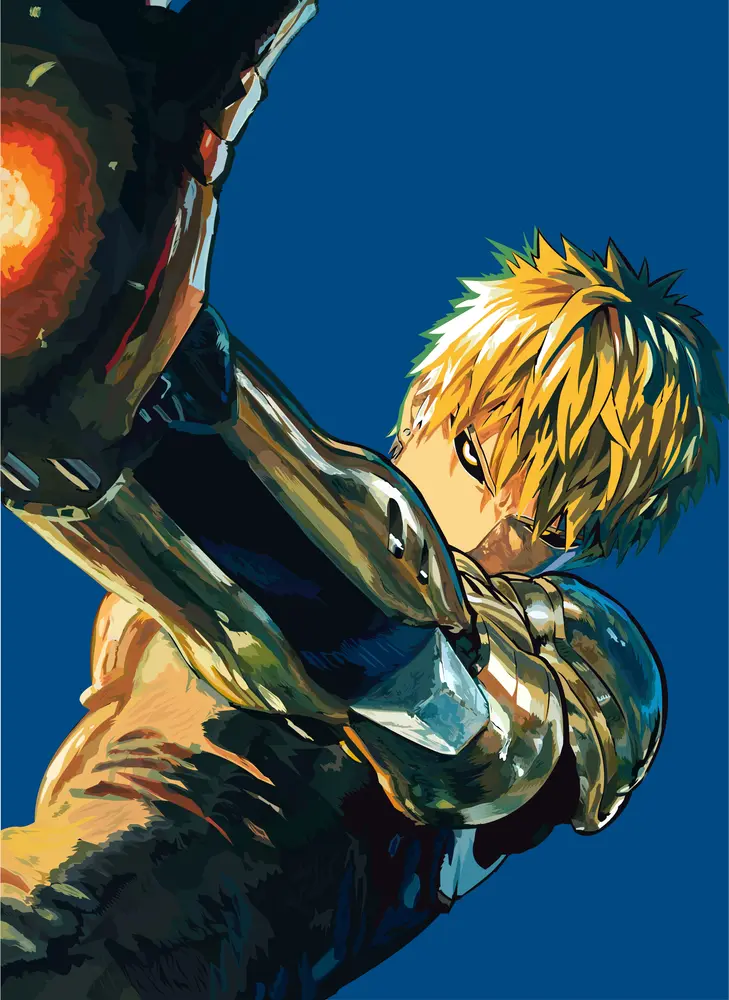
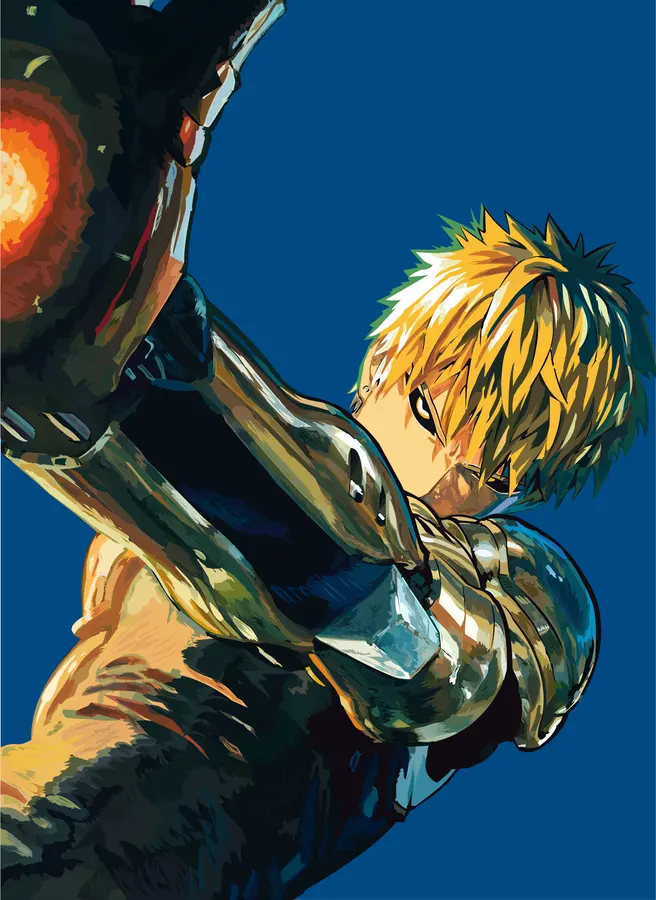
Genre mosaic: rounded corners and curated artwork
Pieces are clipped with per-piece SVG clip paths (objectBoundingBox units)
so corners can be rounded while staying responsive. Uses the original
comic artwork for Action, Fantasy, Sci-Fi, Horror, Romance, Mystery and
Sports, plus Black Clover, One Punch Man and Your Lie in April for
Adventure, Comedy and Drama.

diff --git a/manga-proj/frontend/src/app/pages/home/mosaic-geometry.ts b/manga-proj/frontend/src/app/pages/home/mosaic-geometry.ts
@@ -12,6 +12,8 @@ export interface MosaicLayout {
   height: number;
   /** Gap between pieces, in design units. */
   gap: number;
+  /** Corner radius of each piece, in design units. */
+  radius: number;
   /** Row boundaries from top to bottom as [y at left edge, y at right edge]. */
   lines: [number, number][];
   /** For each row, its cut lines from left to right as [x on the row's top line, x on its bottom line]. */
@@ -19,8 +21,8 @@ export interface MosaicLayout {
 }
 
 export interface Piece {
-  /** clip-path polygon in % of the mosaic box */
-  clipPath: string;
+  /** SVG path for clipPathUnits="objectBoundingBox" (0..1 of the mosaic box), with rounded corners. */
+  path: string;
   /** Bounding box of the piece in % of the mosaic box (for positioning the artwork). */
   box: { left: number; top: number; width: number; height: number };
   /** Bottom-left anchor for the caption, inside the piece, in %. */
@@ -48,7 +50,7 @@ export function buildMosaic(layout: MosaicLayout): Piece[] {
         { x: rb, y: yOn(bottom, rb) },
         { x: lb, y: yOn(bottom, lb) },
       ];
-      pieces.push(toPiece(inset(quad, layout), W, H));
+      pieces.push(toPiece(inset(quad, layout), layout));
     }
   });
   return pieces;
@@ -80,7 +82,7 @@ function intersect(e1: { p: Point; d: Point }, e2: { p: Point; d: Point }): Poin
   return { x: e1.p.x + e1.d.x * t, y: e1.p.y + e1.d.y * t };
 }
 
-function toPiece(quad: Point[], W: number, H: number): Piece {
+function toPiece(quad: Point[], { width: W, height: H, radius }: MosaicLayout): Piece {
   const px = (x: number) => (x / W) * 100;
   const py = (y: number) => (y / H) * 100;
   const xs = quad.map((p) => p.x);
@@ -91,7 +93,7 @@ function toPiece(quad: Point[], W: number, H: number): Piece {
   const labelY = Math.min(bl.y, br.y) - pad;
   const rightLimit = Math.min(tr.x, br.x) - pad;
   return {
-    clipPath: `polygon(${quad.map((p) => `${round(px(p.x))}% ${round(py(p.y))}%`).join(', ')})`,
+    path: roundedPath(quad, radius, W, H),
     box: {
       left: px(Math.min(...xs)),
       top: py(Math.min(...ys)),
@@ -102,15 +104,40 @@ function toPiece(quad: Point[], W: number, H: number): Piece {
   };
 }
 
-function round(n: number): number {
-  return Math.round(n * 100) / 100;
+/**
+ * Closed path through the quad with each corner replaced by a quadratic curve that starts and ends
+ * `radius` away from the vertex along its two edges. Output is normalised to 0..1 so the clip path
+ * scales with the element (clipPathUnits="objectBoundingBox").
+ */
+function roundedPath(quad: Point[], radius: number, W: number, H: number): string {
+  const n = (p: Point) => `${round4(p.x / W)} ${round4(p.y / H)}`;
+  const toward = (from: Point, to: Point, dist: number): Point => {
+    const len = Math.hypot(to.x - from.x, to.y - from.y);
+    const t = Math.min(dist, len / 2) / len;
+    return { x: from.x + (to.x - from.x) * t, y: from.y + (to.y - from.y) * t };
+  };
+  let d = '';
+  quad.forEach((v, i) => {
+    const prev = quad[(i - 1 + quad.length) % quad.length];
+    const next = quad[(i + 1) % quad.length];
+    const start = toward(v, prev, radius);
+    const end = toward(v, next, radius);
+    d += `${i === 0 ? 'M' : 'L'}${n(start)} Q${n(v)} ${n(end)} `;
+  });
+  return d + 'Z';
 }
+
+function round4(n: number): number {
+  return Math.round(n * 10000) / 10000;
+}
+
 
 /** Desktop: three interlocking rows (3 + 3 + 4 pieces) with alternating diagonal cuts. */
 export const DESKTOP_LAYOUT: MosaicLayout = {
   width: 1200,
   height: 820,
   gap: 14,
+  radius: 16,
   lines: [
     [0, 0],
     [310, 268],
@@ -139,6 +166,7 @@ export const MOBILE_LAYOUT: MosaicLayout = {
   width: 400,
   height: 1180,
   gap: 9,
+  radius: 12,
   lines: [
     [0, 0],
     [244, 216],

diff --git a/manga-proj/frontend/src/app/pages/home/genre-mosaic.ts b/manga-proj/frontend/src/app/pages/home/genre-mosaic.ts
@@ -3,6 +3,8 @@ import { RouterLink } from '@angular/router';
 import { GENRE_TILES } from './genres';
 import { DESKTOP_LAYOUT, MOBILE_LAYOUT, buildMosaic } from './mosaic-geometry';
 
+let instances = 0;
+
 const DESKTOP_PIECES = buildMosaic(DESKTOP_LAYOUT);
 const MOBILE_PIECES = buildMosaic(MOBILE_LAYOUT);
 
@@ -12,12 +14,22 @@ const MOBILE_PIECES = buildMosaic(MOBILE_LAYOUT);
   imports: [RouterLink],
   changeDetection: ChangeDetectionStrategy.OnPush,
   template: `
+    <!-- Rounded-corner clip shapes, one per piece (objectBoundingBox units, so they scale) -->
+    <svg class="defs" width="0" height="0" aria-hidden="true" focusable="false">
+      <defs>
+        @for (tile of tiles(); track tile.genre.id) {
+          <clipPath [attr.id]="clipId(tile.genre.id)" clipPathUnits="objectBoundingBox">
+            <path [attr.d]="tile.piece.path" />
+          </clipPath>
+        }
+      </defs>
+    </svg>
     <div class="mosaic" [style.aspect-ratio]="ratio()">
       @for (tile of tiles(); track tile.genre.id) {
         <div class="cell">
           <a
             class="piece"
-            [style.clip-path]="tile.piece.clipPath"
+            [style.clip-path]="'url(#' + clipId(tile.genre.id) + ')'"
             [routerLink]="['/manga']"
             [queryParams]="{ genres: tile.genre.id }"
             [attr.aria-label]="'Browse ' + tile.genre.name + ' manga'"
@@ -48,6 +60,8 @@ const MOBILE_PIECES = buildMosaic(MOBILE_LAYOUT);
 })
 export class GenreMosaic {
   private readonly mobile = signal(false);
+  /** Clip path ids must be unique in the document. */
+  private readonly uid = `gm${instances++}`;
 
   protected readonly tiles = computed(() => {
     const pieces = this.mobile() ? MOBILE_PIECES : DESKTOP_PIECES;
@@ -57,6 +71,10 @@ export class GenreMosaic {
     const layout = this.mobile() ? MOBILE_LAYOUT : DESKTOP_LAYOUT;
     return `${layout.width} / ${layout.height}`;
   });
+
+  protected clipId(genreId: number): string {
+    return `${this.uid}-${genreId}`;
+  }
 
   constructor() {
     const query = window.matchMedia('(max-width: 720px)');

diff --git a/manga-proj/frontend/src/app/pages/home/genres.ts b/manga-proj/frontend/src/app/pages/home/genres.ts
@@ -5,13 +5,13 @@
  */
 export const GENRE_TILES = [
   { id: 2, name: 'Adventure', image: 'adventure', focus: '50% 30%' },
-  { id: 22, name: 'Romance', image: 'romance', focus: '45% 40%' },
-  { id: 10, name: 'Fantasy', image: 'fantasy', focus: '45% 30%' },
+  { id: 22, name: 'Romance', image: 'romance', focus: '50% 62%' },
+  { id: 10, name: 'Fantasy', image: 'fantasy', focus: '50% 30%' },
   { id: 1, name: 'Action', image: 'action', focus: '50% 22%' },
-  { id: 14, name: 'Horror', image: 'horror', focus: '70% 40%' },
-  { id: 24, name: 'Sci-Fi', image: 'sci-fi', focus: '62% 35%' },
+  { id: 14, name: 'Horror', image: 'horror', focus: '50% 20%' },
+  { id: 24, name: 'Sci-Fi', image: 'sci-fi', focus: '62% 38%' },
   { id: 4, name: 'Comedy', image: 'comedy', focus: '60% 30%' },
-  { id: 8, name: 'Drama', image: 'drama', focus: '50% 60%' },
+  { id: 8, name: 'Drama', image: 'drama', focus: '45% 40%' },
   { id: 7, name: 'Mystery', image: 'mystery', focus: '55% 35%' },
-  { id: 30, name: 'Sports', image: 'sports', focus: '45% 30%' },
+  { id: 30, name: 'Sports', image: 'sports', focus: '50% 28%' },
 ] as const;

diff --git a/manga-proj/frontend/src/app/pages/home/genre-mosaic.scss b/manga-proj/frontend/src/app/pages/home/genre-mosaic.scss
@@ -1,5 +1,11 @@
 // Every piece is a full-size layer clipped to its polygon, so the gaps are simply page background
 // showing through and the shapes never overlap. clip-path also limits the clickable area.
+.defs {
+  position: absolute;
+  width: 0;
+  height: 0;
+}
+
 .mosaic {
   position: relative;
   width: 100%;
@@ -58,10 +64,10 @@
   gap: 10px;
   color: var(--paper);
   font-weight: 800;
-  font-size: clamp(0.8rem, 0.55rem + 0.9vw, 1.35rem);
-  letter-spacing: 0.14em;
+  font-size: clamp(0.76rem, 0.5rem + 0.65vw, 1.05rem);
+  line-height: 1.15;
+  letter-spacing: 0.08em;
   text-transform: uppercase;
-  white-space: nowrap;
   text-shadow: 0 2px 12px rgb(0 0 0 / 0.7);
   transition: transform 0.35s ease;
 
@@ -92,12 +98,12 @@
 
 @media (max-width: 720px) {
   .label {
-    gap: 7px;
-    font-size: 0.72rem;
-    letter-spacing: 0.1em;
+    gap: 6px;
+    font-size: 0.7rem;
+    letter-spacing: 0.04em;
 
     .bar {
-      width: 12px;
+      width: 10px;
     }
   }
 }
